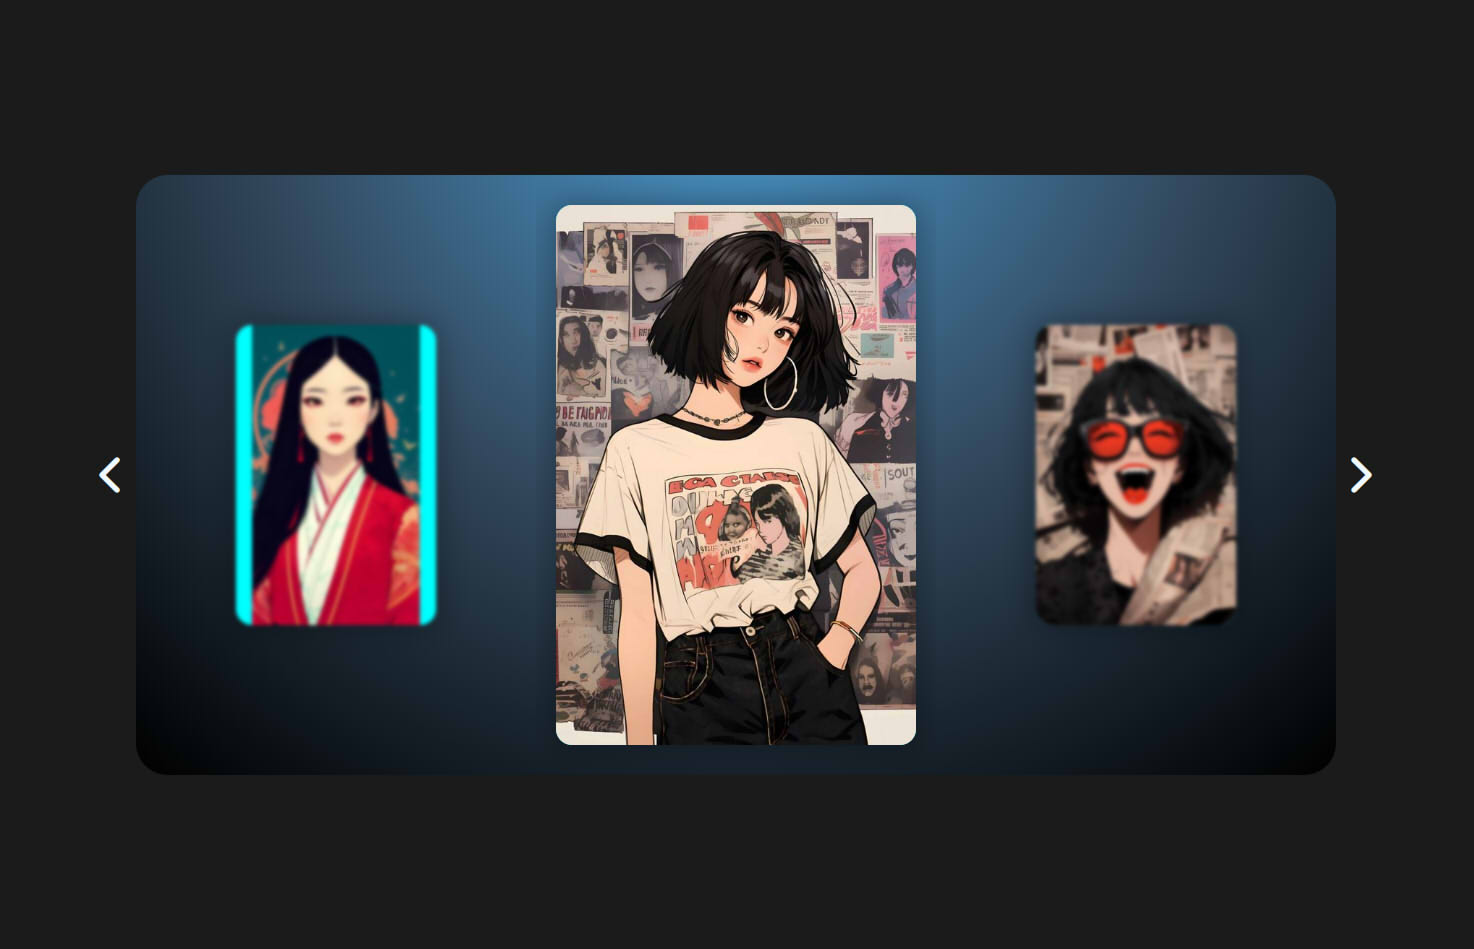
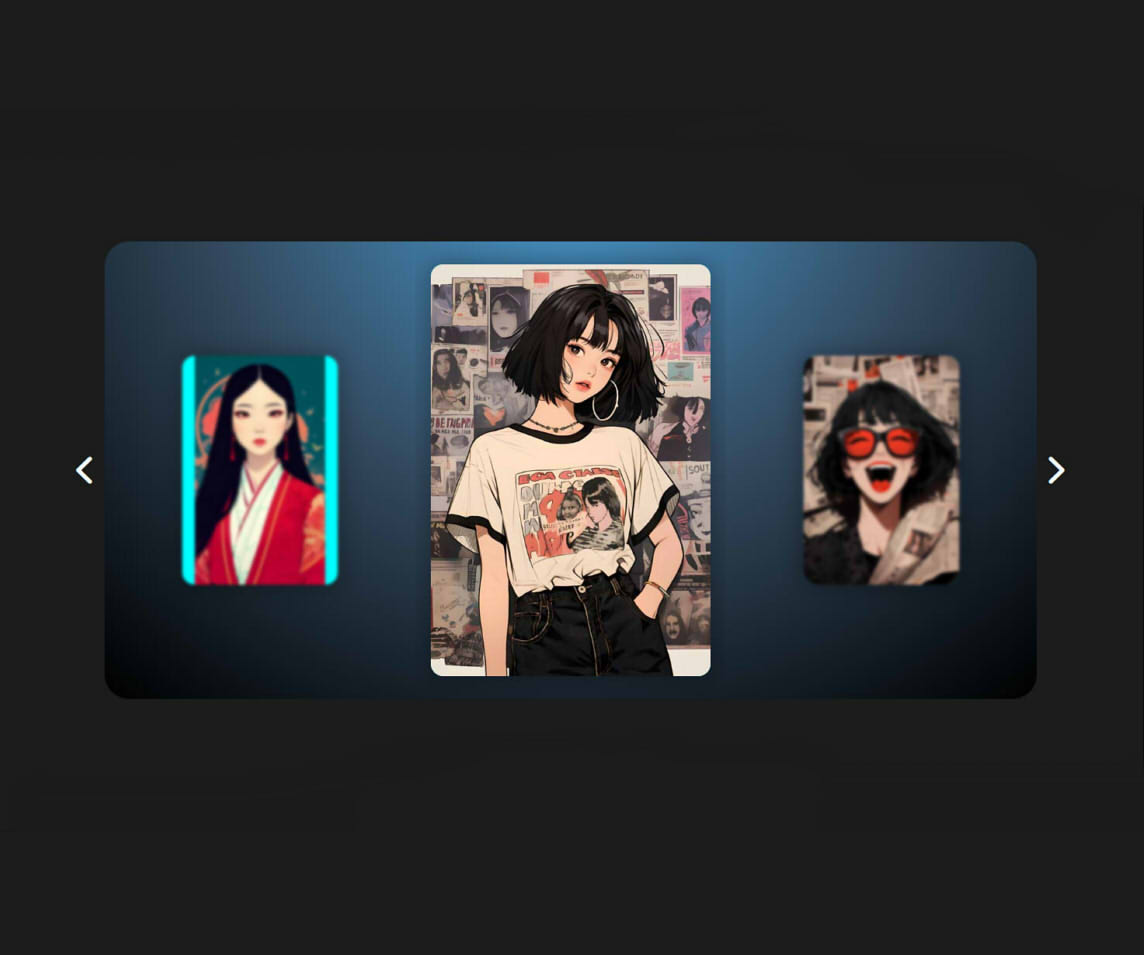
correcciones visuales en galeria de proyectos

diff --git a/CSS/GENERAL/general.css b/CSS/GENERAL/general.css
@@ -15,13 +15,6 @@ li {
     list-style: none;
 }
 
-li, li a {
-    display: flex;
-    align-items: center;
-    justify-content: center;
-    flex-direction: column;
-}
-
 
 
 
@@ -106,7 +99,20 @@ header {
 
 
 
+/*img portafolio*/
 
+#PORTAFOLIO .cont_proyectos li .cont_imagen_proyecto {
+    background: none;
+    
+}
+
+
+
+#PORTAFOLIO .cont_proyectos li .cont_imagen_proyecto img {
+    width: 100%;
+    height: 100%;
+    border-radius: 10px;
+}
 
 
 

diff --git a/CSS/PC/PC.css b/CSS/PC/PC.css
@@ -506,10 +506,9 @@
 
 
 
-    #PORTAFOLIO .cont_proyectos li .cont_imagen_proyecto img {
-        width: 100%;
-        height: 100%;
-    }
+    
+
+    
 
     #PORTAFOLIO .cont_proyectos li p {
         grid-column: 1 / -1;
